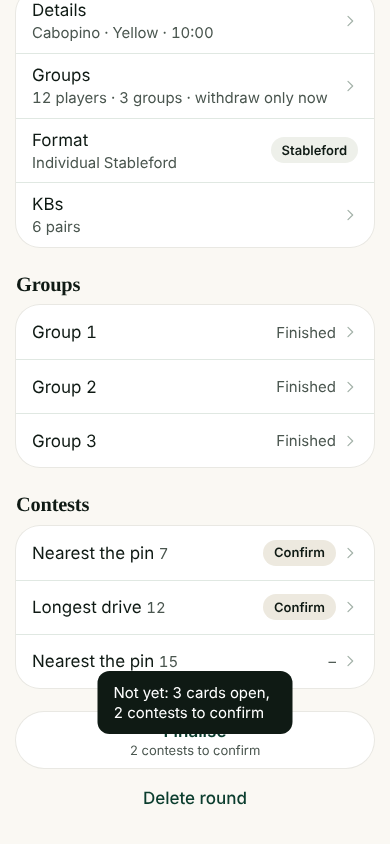
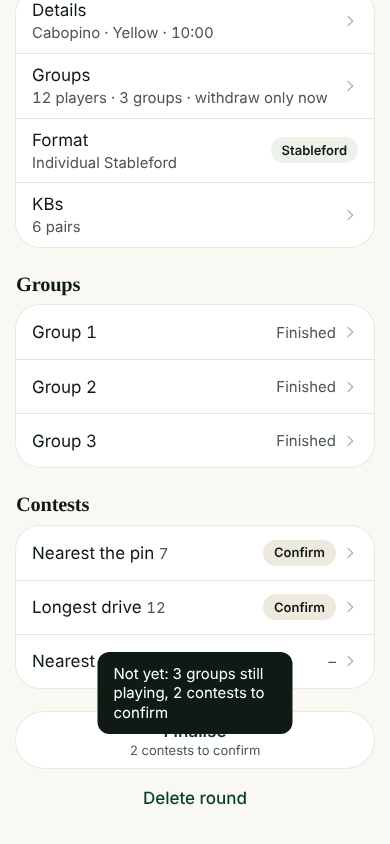
Batch A (joint plan): honest states and no dead ends
- '_nobody' is shown as 'Nobody' everywhere (contest confirm, round page).
- Results opened from a trip day, a round or Home have a back link named after where
  they go; a past round's back link says 'Past rounds', not 'NCGS'.
- Finalise blockers say 'N groups/teams still playing', not 'cards open'.
- A hole saved with no signal says 'On this phone · sends when there's signal' until sent.
- A finished scramble's tab reads 'Team', not 'Card'.
- 'To beat' tile only when there's someone to beat (season-context test updated).
Journeys 3, 4, 6, 7 re-recorded showing each change.

Claude-Session: https://claude.ai/code/session_01RTwXvzpnM1XsBN1tqA8uDT

Changed region(s): [[0.2462, 0.7701, 0.7692, 0.8626]]

diff --git a/src/app/30-play.js b/src/app/30-play.js
@@ -434,7 +434,7 @@ VIEWS.after = () => {
   } else next = `<button class="btn" data-act="to-finish">See the card</button>`;
   return {
     tabs: 'hole',
-    html: `<div class="after"><header class="hero c pine entcard"><div class="entrow"><div class="entl"><small>HOLE</small><b class="entn">${a.n}</b></div><div class="entr"><b>Par ${ah.par}</b><span>Index ${ah.si}${ah.yards ? ` · ${ah.yards} yds` : ''}</span></div></div><div class="afsaved"><span class="savedchip">${sized(ICON.check, 18)} Saved</span><button class="undochip" data-act="undo">Undo</button></div><div class="prog" role="img" aria-label="Hole ${a.n} of 18">${Array.from({ length: 18 }, (_, i) => i + 1).map(k => `<i class="${k === a.n ? 'cur' : k < a.n ? 'done' : ''}"></i>`).join('')}</div></header>
+    html: `<div class="after"><header class="hero c pine entcard"><div class="entrow"><div class="entl"><small>HOLE</small><b class="entn">${a.n}</b></div><div class="entr"><b>Par ${ah.par}</b><span>Index ${ah.si}${ah.yards ? ` · ${ah.yards} yds` : ''}</span></div></div><div class="afsaved"><span class="savedchip">${sized(ICON.check, 18)} ${DB.outbox.some(i => i.req && i.req.op === 'saveHole' && i.req.round === a.rid && Number(i.req.hole) === a.n) ? 'On this phone · sends when there\'s signal' : 'Saved'}</span><button class="undochip" data-act="undo">Undo</button></div><div class="prog" role="img" aria-label="Hole ${a.n} of 18">${Array.from({ length: 18 }, (_, i) => i + 1).map(k => `<i class="${k === a.n ? 'cur' : k < a.n ? 'done' : ''}"></i>`).join('')}</div></header>
       ${buggies ? `<div class="sec-label afbw"><span class="sub">Buggy Wars</span></div><div class="bw-vs afvs">${bwBadges(gc.teams[0], 0)}<span class="sub">v</span>${bwBadges(gc.teams[1], 1)}</div>
       <div class="card bw-card aftercard"><div class="bw-row afres"><span class="bw-l afl">Hole ${a.n}</span>${head}<span></span>${sub ? `<small class="afres-sub">${esc(sub)}</small>` : ''}</div>${rows}</div>` : `<div class="aftercard"><div class="afhead"><div class="res">${head}</div>${sub ? `<p class="sub res-sub">${esc(sub)}</p>` : ''}</div>${rows}</div>`}
       ${edge}${next}${saveWarning()}</div>`
@@ -833,7 +833,10 @@ VIEWS.board = () => {
   const pillSel = avail.includes(UI.res) ? UI.res : 'lb';
   const live0 = r.status === 'live';
   const thru0 = live0 && res0 && res0.rows.length ? Math.max(...res0.rows.map(x => x.thru || 0)) : 0;
-  let html = `<header class="hero c lbhead">${live0 ? `<p class="eyebrow"><span class="pulse"></span>LIVE${thru0 ? ' \u00b7 THRU ' + thru0 : ''}</p>` : ''}<div class="hrow2"><h1 class="big">Leaderboard</h1></div><p class="sub">${esc(roundName(r))} \u00b7 ${isScramble(r) ? 'Team scramble' : 'Stableford'}</p></header>`;
+  // Opened from somewhere (a trip day, a round, Home's "See the results"): a back link, so it isn't a dead end (journey 4).
+  const fromSt = typeof stackOf === 'function' ? stackOf() : UI.stack;
+  const backTo = fromSt && fromSt.length > 1 && fromSt[fromSt.length - 1].v === 'board' ? navBack(backLabel()) : '';
+  let html = `${backTo}<header class="hero c lbhead">${live0 ? `<p class="eyebrow"><span class="pulse"></span>LIVE${thru0 ? ' \u00b7 THRU ' + thru0 : ''}</p>` : ''}<div class="hrow2"><h1 class="big">Leaderboard</h1></div><p class="sub">${esc(roundName(r))} \u00b7 ${isScramble(r) ? 'Team scramble' : 'Stableford'}</p></header>`;
   if (avail.length > 1) {
     const names = { lb: 'Scores', bw: 'Buggy Wars', ct: 'Contests', st: 'Stats' };
     html += `<div class="seg pills${avail.length > 3 ? ' four' : ''}" role="tablist">${avail.map(k => `<button class="${pillSel === k ? 'on' : ''}" role="tab" data-act="respill" data-p="${k}" aria-selected="${pillSel === k}">${names[k]}</button>`).join('')}</div>`;

diff --git a/src/app/20-society.js b/src/app/20-society.js
@@ -1,4 +1,6 @@
 /* ================= SOCIETY SCREENS ================= */
+/* A contest answer of "nobody" is stored as '_nobody'; every screen shows it as "Nobody" (journey 6 review). */
+{ const nameOf0 = D.nameOf; D.nameOf = id => (id === '_nobody' ? 'Nobody' : nameOf0(id)); }
 const VIEWS = {};
 
 function roundRow(r, right) {
@@ -504,7 +506,8 @@ VIEWS.round = p => {
   const holes = holesOf(r);
   const inPlay = UI.stack.some(e => ['tee', 'match', 'board', 'rules'].includes(e.v));
   const prev = UI.stack[UI.stack.length - 2];
-  let html = '<header class="hero s">' + navBack(prev && prev.v === 'tee' ? `Hole ${UI.hole || ''}`.trim() : prev && prev.v === 'player' ? D.nameOf(prev.p.pid) : prev && prev.v === 'card' ? 'Card' : D.society());
+  // The back link names where it goes (journey 1: it used to say "NCGS" coming from Past rounds).
+  let html = '<header class="hero s">' + navBack(prev && prev.v === 'tee' ? `Hole ${UI.hole || ''}`.trim() : prev && prev.v === 'card' ? 'Card' : backLabel());
   html += `<div class="head"><h1 class="title">${esc(roundName(r))}</h1>${statusPill(r)}</div>`;
   const when = roundWhen(r);
   if (when) html += `<p class="sub">${esc(when)}</p>`;
@@ -721,7 +724,7 @@ VIEWS.player = p => {
   html += `<div class="head"><h1 class="title is-name">${esc(m.name)}</h1></div><p class="sub">${esc([m.full, 'Index ' + fmtIndex(m.index)].filter(Boolean).join(' · '))}</p>`;
   html += `<div class="tiles${past ? ' two' : ''}"><div class="tile flag"><span class="cap">GOY${past ? ' ' + season : ''}</span><span class="bignum">${row ? posWord(row.posLabel) : '–'}</span></div>
     <div class="tile"><span class="cap">Best ${D.goyBest()}</span><span class="bignum">${row ? row.total : '–'}</span></div>
-    ${past ? '' : `<div class="tile"><span class="cap">To beat</span><span class="bignum">${row && row.toBeat ? row.toBeat : '–'}</span></div>`}</div></header>`;
+    ${past || !(row && row.toBeat) ? '' : `<div class="tile"><span class="cap">To beat</span><span class="bignum">${row.toBeat}</span></div>`}</div></header>`;
   const rowsFor = yr => seasonRounds(yr).filter(r => r.status === 'final' || r.status === 'live').reverse().map(r => {
     const res = resultsOf(r.id);
     const me = res ? res.rows.find(x => x.id === m.id) : null;

diff --git a/test/season-context.run.js b/test/season-context.run.js
@@ -52,7 +52,8 @@ const URL = process.env.NCGS_TEST_URL || 'http://localhost:8765/preview.html';
     await redraw(() => { const n = window.__ncgs; n.UI.stack = [{ v: 'home', p: {} }, { v: 'players', p: {} }]; n.render(); });
     await page.click('.prow'); await page.waitForTimeout(200);
     const current = await page.evaluate(() => ({ cap: document.querySelector('.tiles .tile.flag .cap').textContent, n: document.querySelectorAll('.tiles .tile').length }));
-    check('from the Players list it shows the current season, with To beat', current.cap === 'GOY' && current.n === 3);
+    // "To beat" shows only when there is someone to beat (journey 4 review), so the leader has two tiles.
+    check('from the Players list it shows the current season', current.cap === 'GOY' && current.n >= 2);
 
     check('nothing runs off the side', await page.evaluate(() => document.documentElement.scrollWidth <= innerWidth));
     check('no script errors', errors.length === 0); if (errors.length) console.log(errors);

diff --git a/src/app/90-main.js b/src/app/90-main.js
@@ -581,7 +581,7 @@ function render() {
     try {
       const rid = playRid() || liveRid(), mine = rid && myGroup(rid), comp = mine && progressOf(rid);
       const gc = comp && comp.groups.find(g => g.id === mine.id);
-      if (gc) lbl = gc.nextHole ? `Hole ${gc.nextHole}` : 'Card';
+      if (gc) lbl = gc.nextHole ? `Hole ${gc.nextHole}` : isScramble(D.round(rid)) ? 'Team' : 'Card';
     } catch (e) { /* keep "Hole" */ }
     const span = tabs.querySelector('.tab[data-tab="hole"] span');
     if (span && span.textContent !== lbl) span.textContent = lbl;

diff --git a/src/app/40-org.js b/src/app/40-org.js
@@ -74,7 +74,7 @@ function finaliseBlockers(r) {
   const wins = D.winners(r.id);
   const toConfirm = (r.contests || []).filter(c => (claims[c.hole] || []).length && !wins[c.hole]).length;
   const reasons = [];
-  if (open) reasons.push(`${plural(open, 'card')} open`);
+  if (open) reasons.push(`${plural(open, isScramble(r) ? 'team' : 'group')} still playing`);
   if (toConfirm) reasons.push(`${plural(toConfirm, 'contest')} to confirm`);
   return reasons;
 }
